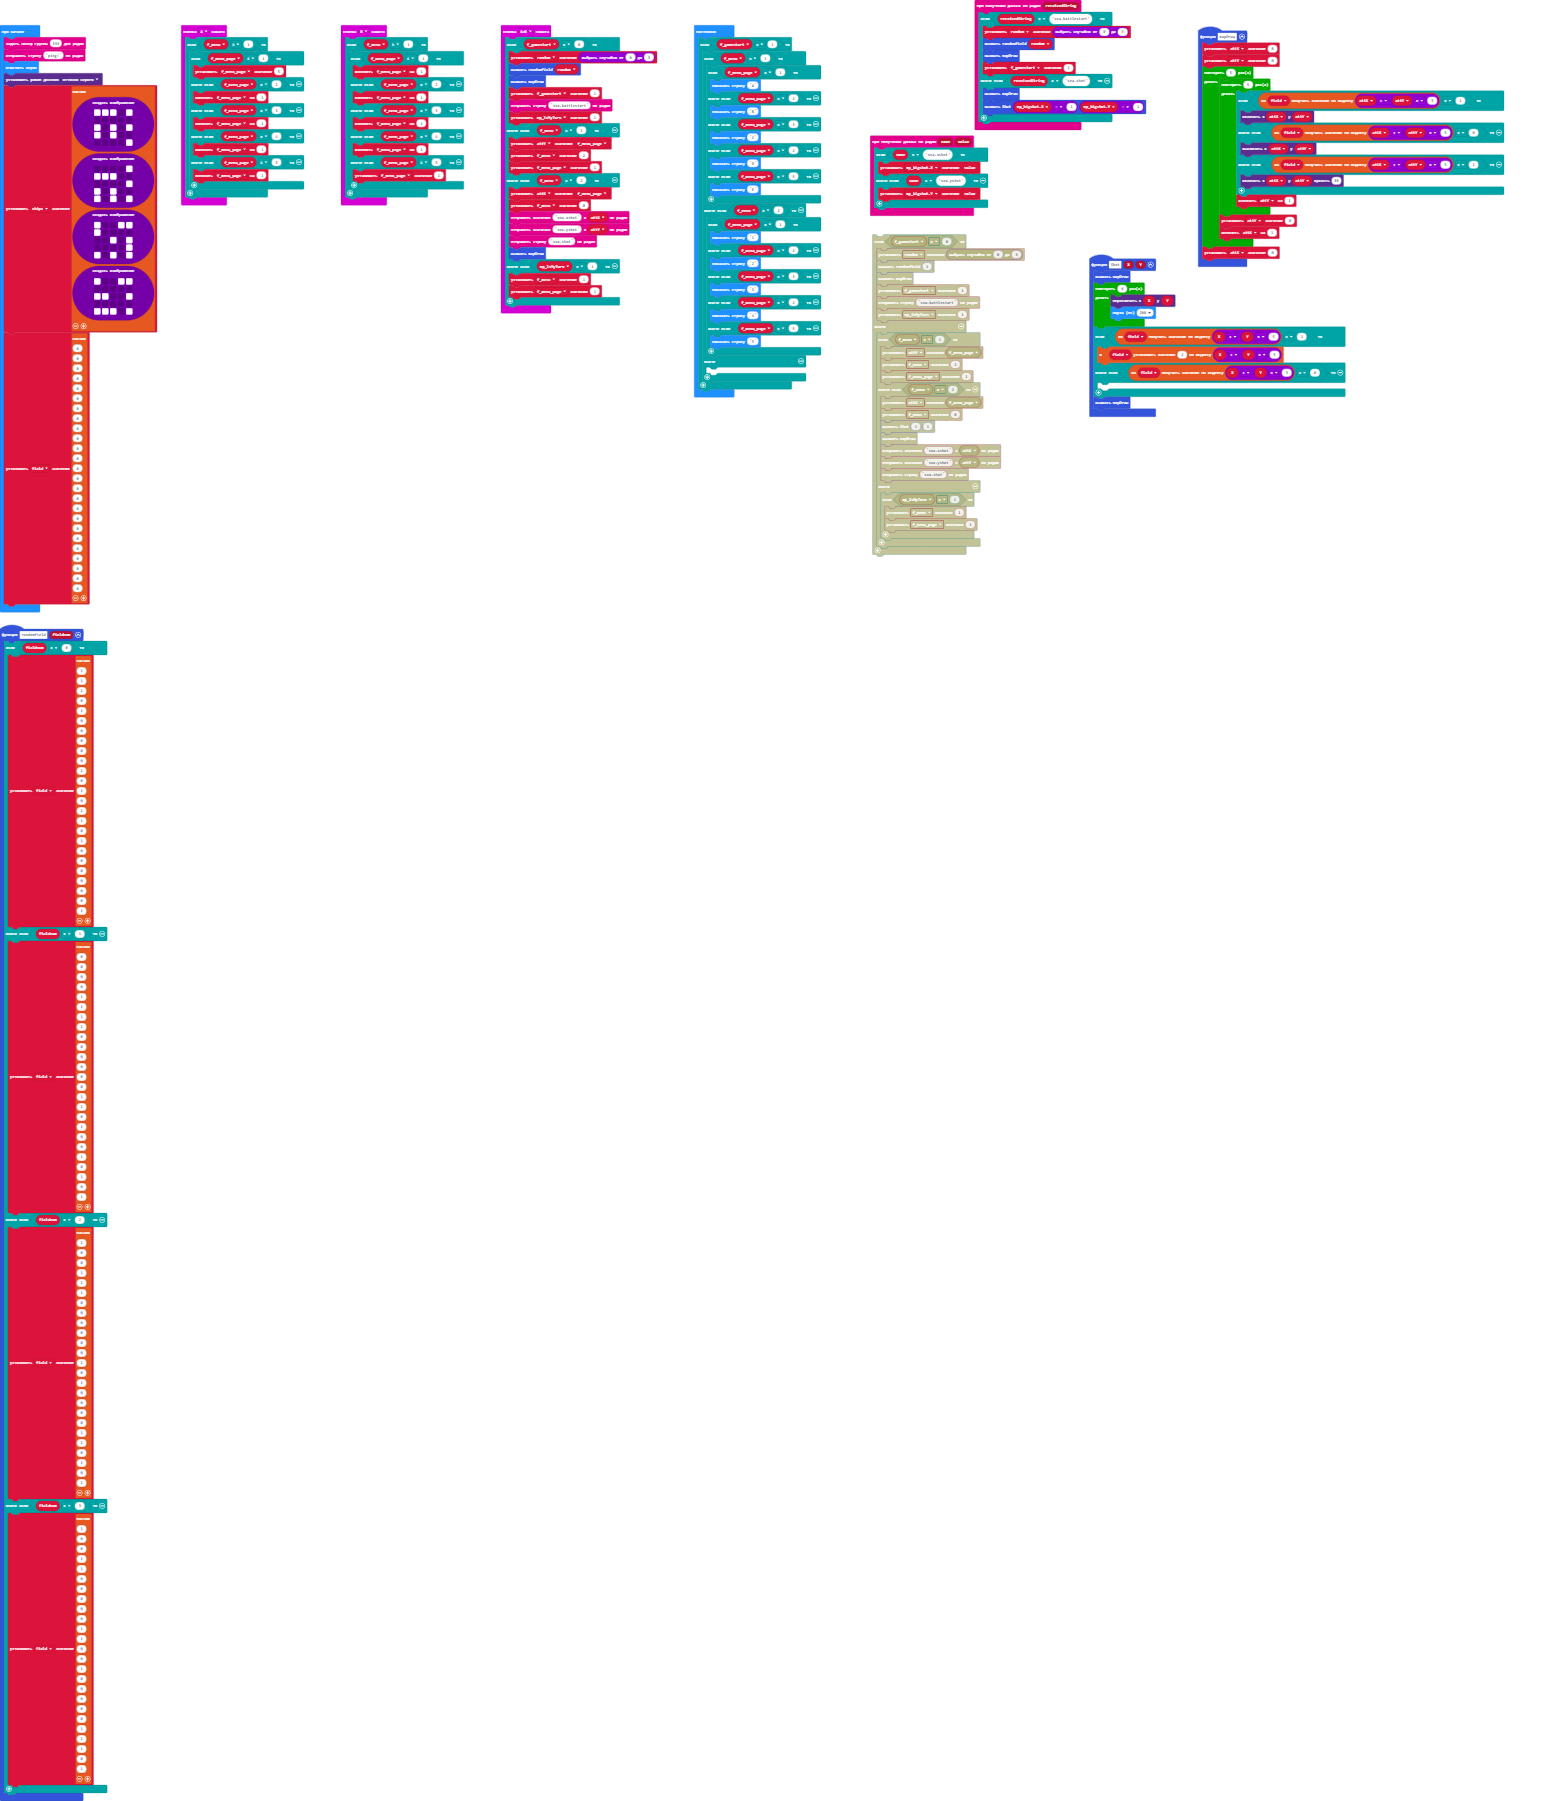
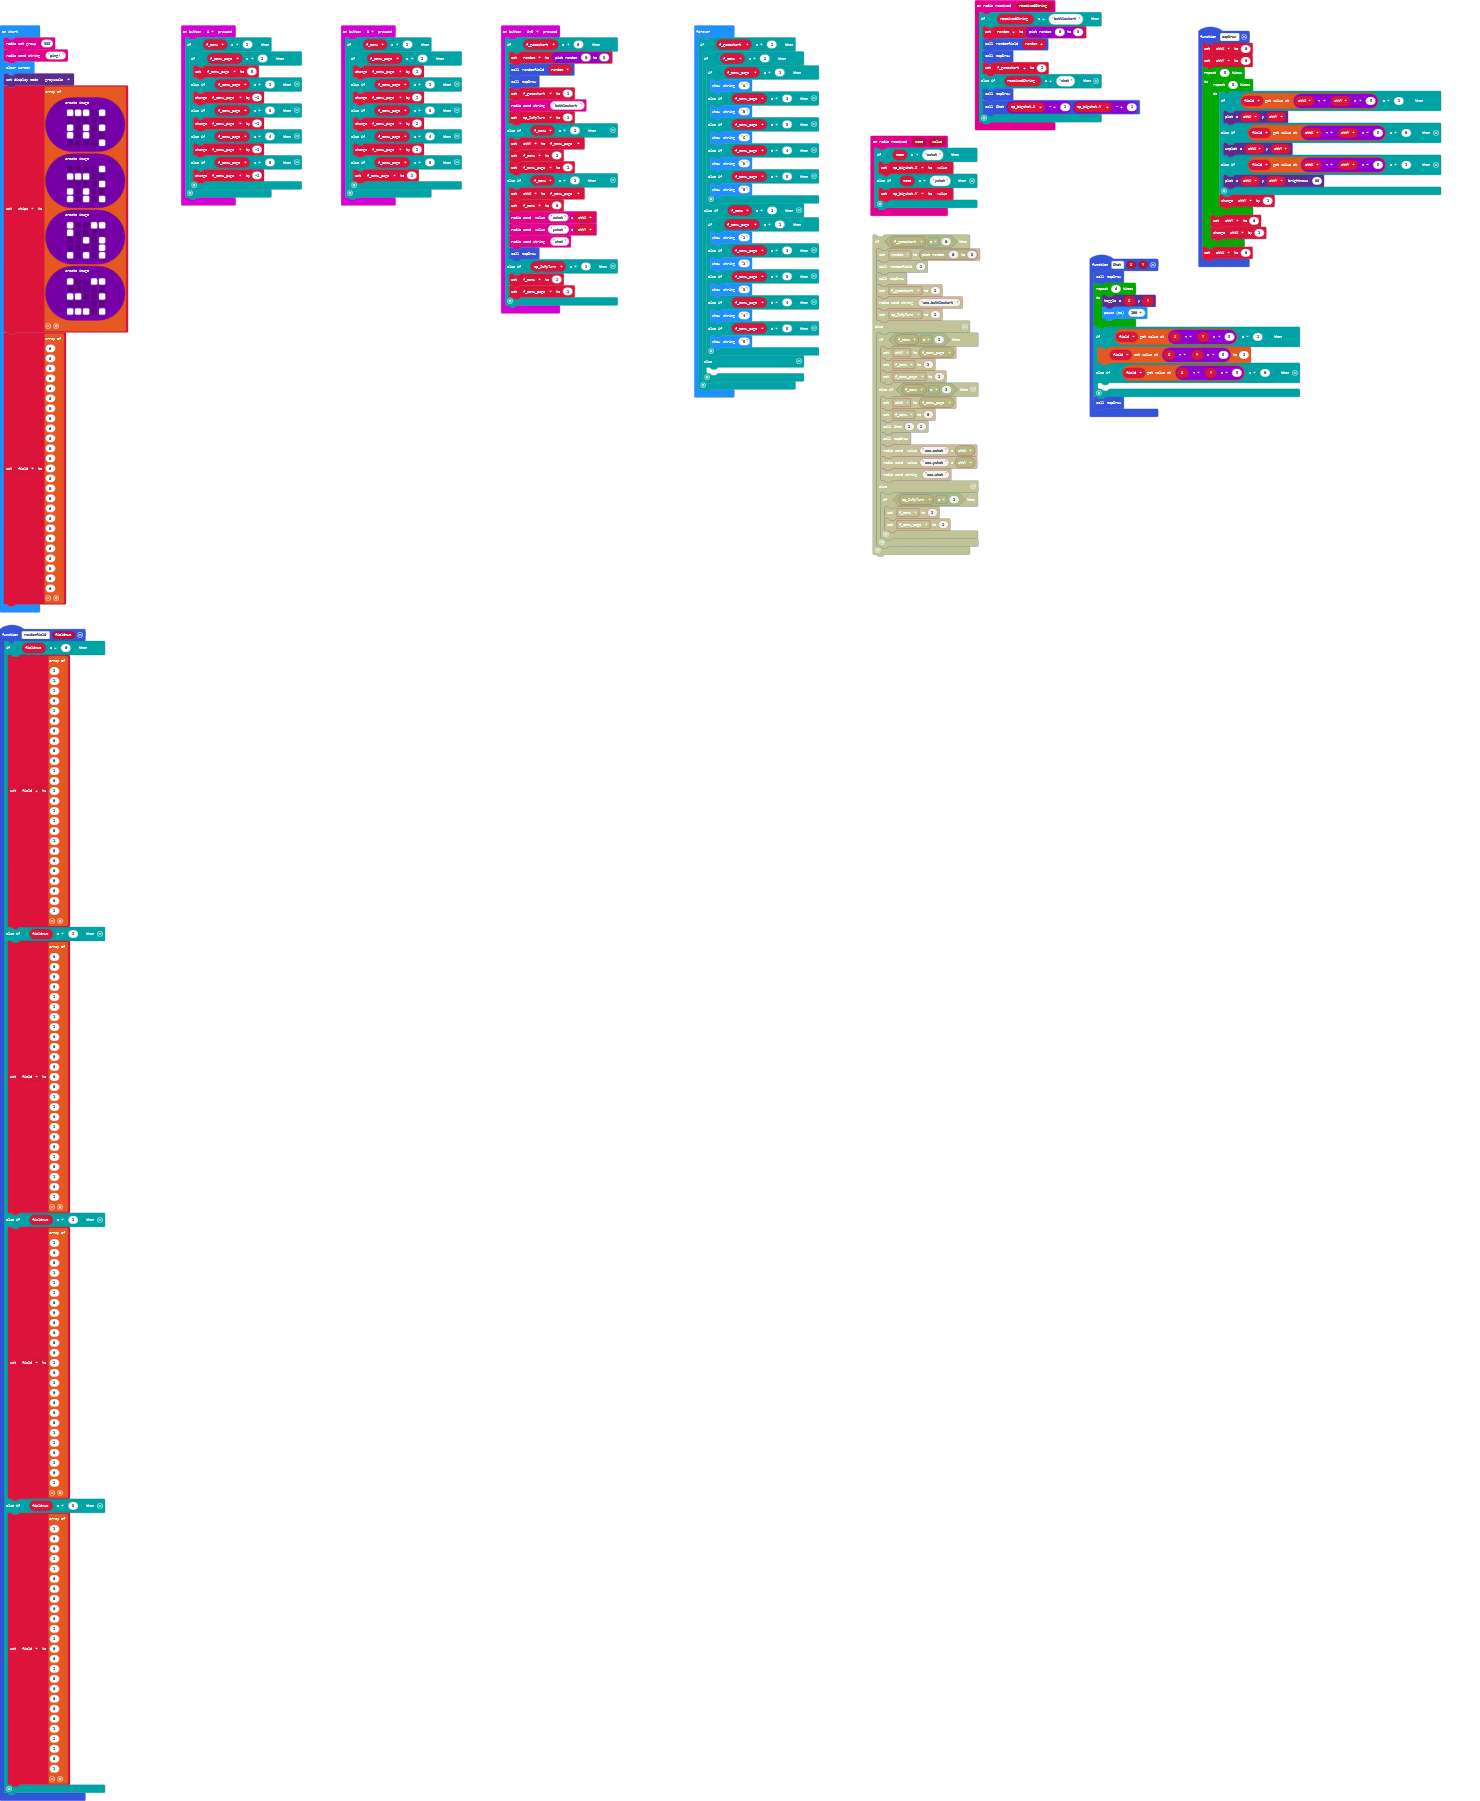
Fixed trimming of packet string names

Changed region(s): [[0.0, 0.0, 0.9635, 1.0]]

diff --git a/main.ts b/main.ts
@@ -147,7 +147,7 @@ input.onButtonPressed(Button.AB, function () {
         randomfield(random)
         mapDraw()
         f_gamestart = 1
-        radio.sendString("sea.battlestart")
+        radio.sendString("battlestart")
         mp_IsMyTurn = 1
     } else if (f_menu == 1) {
         attY = f_menu_page
@@ -156,9 +156,9 @@ input.onButtonPressed(Button.AB, function () {
     } else if (f_menu == 2) {
         attX = f_menu_page
         f_menu = 0
-        radio.sendValue("sea.xshot", attX)
-        radio.sendValue("sea.yshot", attY)
-        radio.sendString("sea.shot")
+        radio.sendValue("xshot", attX)
+        radio.sendValue("yshot", attY)
+        radio.sendString("shot")
         mapDraw()
     } else if (mp_IsMyTurn == 1) {
         f_menu = 1
@@ -166,12 +166,12 @@ input.onButtonPressed(Button.AB, function () {
     }
 })
 radio.onReceivedString(function (receivedString) {
-    if (receivedString == "sea.battlestart") {
+    if (receivedString == "battlestart") {
         random = randint(0, 3)
         randomfield(random)
         mapDraw()
         f_gamestart = 1
-    } else if (receivedString == "sea.shot") {
+    } else if (receivedString == "shot") {
         mapDraw()
         Shot(mp_bigshotX - 1, mp_bigshotY - 1)
     }
@@ -211,9 +211,9 @@ function mapDraw () {
     attX = 0
 }
 radio.onReceivedValue(function (name, value) {
-    if (name == "sea.xshot") {
+    if (name == "xshot") {
         mp_bigshotX = value
-    } else if (name == "sea.yshot") {
+    } else if (name == "yshot") {
         mp_bigshotY = value
     }
 })
